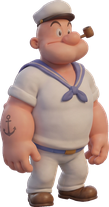
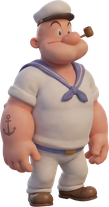
v0.46: kullanıcı görselleri orijinal saydamlıkla yeniden kesildi
Claude-Session: https://claude.ai/code/session_017R1wDYYCQ6S6TWsgKDqrv7

diff --git a/www/js/config.js b/www/js/config.js
@@ -1,7 +1,7 @@
 // Oyunun tüm ayarları burada. AdMob ID'lerini buraya yaz.
 window.OYUN_CONFIG = {
   oyunAdi: "DigPopeyeDug",
-  surum: "v0.45", // sağ altta görünür
+  surum: "v0.46", // sağ altta görünür
   paketAdi: "com.jawk.digpopeyedug", // Play Store'a yüklendikten sonra DEĞİŞTİRİLEMEZ
 
   reklam: {

diff --git a/NOTLAR.md b/NOTLAR.md
@@ -2,6 +2,11 @@
 
 ## Bekleyenler
 
+## v0.46 — Görseller Orijinal Saydamlıkla Yeniden Kesildi
+- Kullanıcının verdiği PNG'ler zaten saydam arka planlı; önceki kesimlerde saydamlık atılıp arka plan renge göre siliniyordu. Bu yüzden kapalı boşluklar (ör. Reis'in eli ile kemeri arası) beyaz/siyah kalıyordu.
+- Tüm kullanıcı görselleri orijinal saydamlıklarıyla yeniden kesildi (boyut ve hizalamalar aynı): reis_idle2/3, reis_egil0-4, reis_zipla, reis_zipla_in, pervane_kapali/acik, btn_sayfa_sol/sag, btn_bolum_daire, btn_bolumler, panel_bolumler.
+- KURAL: Kullanıcının PNG'lerinde saydamlık varsa her zaman onu kullan, renge göre arka plan silme.
+
 ## v0.45 — Reis Yere Basıyor
 - Ölçüldü: ayaklar zemine tam değiyordu ama kumun parlak üst kenar çizgisi yüzünden havada gibi görünüyordu. Reis yerdeyken görsel olarak 4 px zemine gömülü çizilir (REIS_YERE_BATMA); çarpışma kutusu aynı.
 - Sabırsız ayak vurmada ayak kalkış süresi 100 ms.
